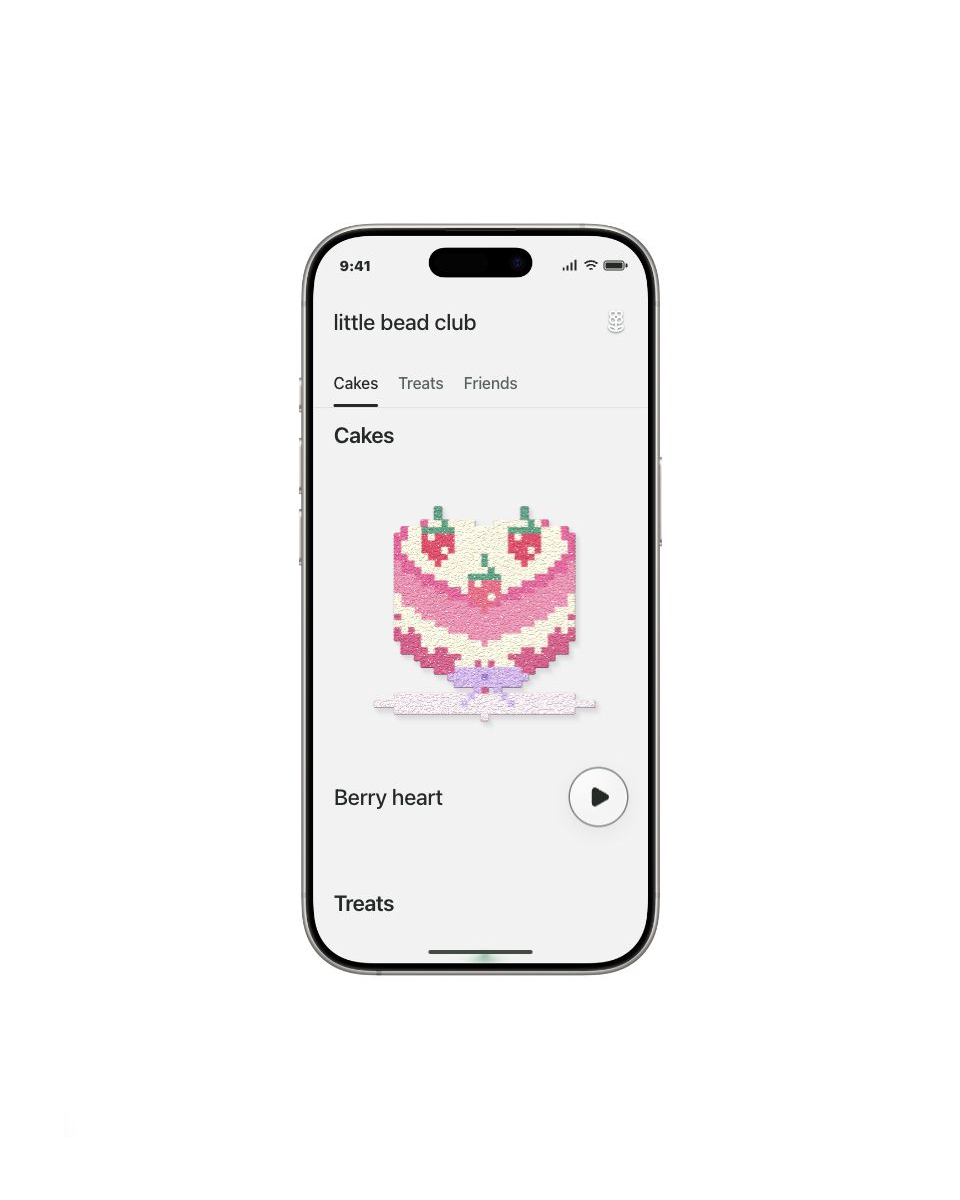
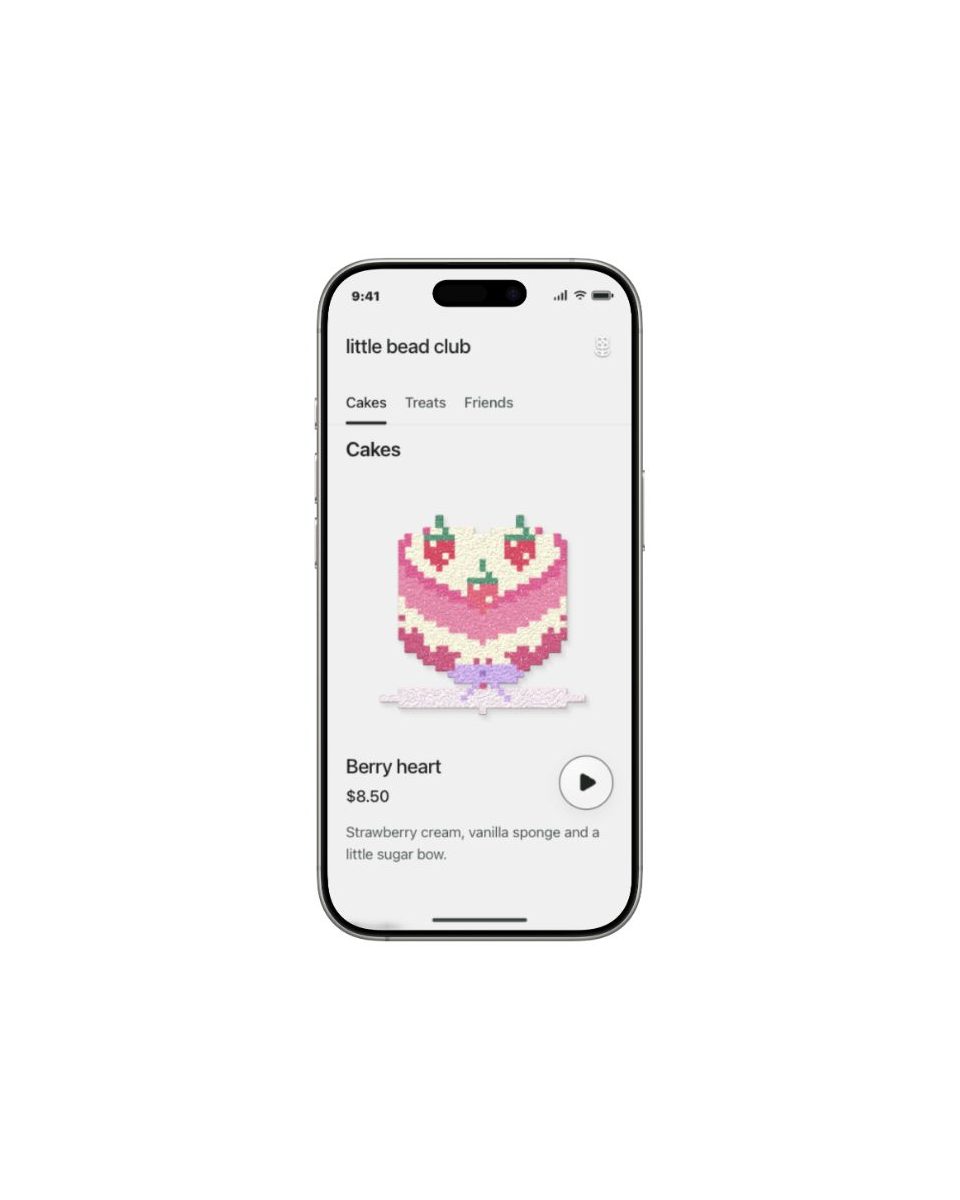
Fit bead phone to screen height and add cafe menu details [skip deploy]

Changed region(s): [[0.3125, 0.185, 0.6875, 0.8325]]

diff --git a/components/play/bead-club/bead-club.tsx b/components/play/bead-club/bead-club.tsx
@@ -15,7 +15,7 @@ export type BeadClubProps = {
 
 type Bead = { x: number; y: number; color: string };
 type BeadMaterial = "pressed" | "frosted" | "glitter" | "terry" | "jelly";
-type Artwork = { material: BeadMaterial; id: string; name: string; category: "Sweet things" | "Little friends"; background: string; beads: Bead[]; colors: string[]; translucentColors?: readonly string[] };
+type Artwork = { material: BeadMaterial; id: string; name: string; price: string; description: string; category: "Sweet things" | "Little friends"; background: string; beads: Bead[]; colors: string[]; translucentColors?: readonly string[] };
 const PHONE_HEIGHT = 390 * 2822 / 1406;
 const P = { pink: "#ff90bd", rose: "#e75793", cream: "#fff2c7", white: "#fffdf4", blue: "#65cff1", red: "#ed3551", dark: "#5b2940", green: "#6cd690", leaf: "#279d69", yellow: "#ffdf53", brown: "#bf8050" };
 
@@ -169,16 +169,16 @@ function makePattern(id: string): Bead[] {
   );
 }
 const artworks: Artwork[] = [
-  { id: "cake-heart", name: "Berry heart", category: "Sweet things", background: "#efe5e3" },
-  { id: "cake-cloud", name: "Blueberry cloud", category: "Sweet things", background: "#e3eff5" },
-  { id: "cake-peach", name: "Peach jelly", category: "Sweet things", background: "#f8e8dd" },
-  { id: "cake-matcha", name: "Matcha garden", category: "Sweet things", background: "#e8efdd" },
-  { id: "cake-violet", name: "Violet crystal", category: "Sweet things", background: "#eee7f7" },
-  { id: "berry", name: "Berry sweet", category: "Sweet things", background: "#e7ebdf" },
-  { id: "bunny", name: "Somebunny", category: "Little friends", background: "#e5eaf0" },
-  { id: "flower", name: "Hello, petal", category: "Little friends", background: "#eee5d9" },
-  { id: "pudding", name: "Sweet little wobble", category: "Sweet things", background: "#e6e9ef" },
-  { id: "bear", name: "Honey bear", category: "Little friends", background: "#eadfd7" },
+  { id: "cake-heart", name: "Berry heart", price: "$8.50", description: "Strawberry cream, vanilla sponge and a little sugar bow.", category: "Sweet things", background: "#efe5e3" },
+  { id: "cake-cloud", name: "Blueberry cloud", price: "$9.00", description: "Blueberry sponge with whipped vanilla cream and berry clouds.", category: "Sweet things", background: "#e3eff5" },
+  { id: "cake-peach", name: "Peach jelly", price: "$7.50", description: "Peach jelly, citrus cream and a fresh mint finish.", category: "Sweet things", background: "#f8e8dd" },
+  { id: "cake-matcha", name: "Matcha garden", price: "$8.00", description: "Matcha sponge, vanilla cream and tiny sugar daisies.", category: "Sweet things", background: "#e8efdd" },
+  { id: "cake-violet", name: "Violet crystal", price: "$8.50", description: "Blackcurrant jelly with vanilla cream and sugared blueberries.", category: "Sweet things", background: "#eee7f7" },
+  { id: "berry", name: "Berry sweet", price: "$5.50", description: "Strawberry mousse wrapped in a bright berry glaze.", category: "Sweet things", background: "#e7ebdf" },
+  { id: "bunny", name: "Somebunny", price: "$6.00", description: "Vanilla bunny cake with strawberry cream and a blue sugar bow.", category: "Little friends", background: "#e5eaf0" },
+  { id: "flower", name: "Hello, petal", price: "$5.00", description: "A raspberry flower tart with a sunny lemon curd centre.", category: "Little friends", background: "#eee5d9" },
+  { id: "pudding", name: "Sweet little wobble", price: "$7.00", description: "Silky vanilla custard, golden caramel and a cherry on top.", category: "Sweet things", background: "#e6e9ef" },
+  { id: "bear", name: "Honey bear", price: "$6.50", description: "Honey sponge with milk chocolate and vanilla cream.", category: "Little friends", background: "#eadfd7" },
 ].map(item => { const beads = makePattern(item.id); return { ...item, material: (JELLY_COLORS[item.id] ? "jelly" : item.id.startsWith("cake-") ? "terry" : "frosted") as BeadMaterial, translucentColors: JELLY_COLORS[item.id], category: item.category as Artwork["category"], beads, colors: [...new Set(beads.map(bead => bead.color))] }; });
 
 function FlatBeadArt({ art, count = art.beads.length, animated = false }: { art: Artwork; count?: number; animated?: boolean }) {
@@ -684,7 +684,7 @@ function MenuShelf({ items, onOpen }: { items: Artwork[]; onOpen: (art: Artwork,
     onClickCapture={event => { if (suppressClick.current) { event.preventDefault(); event.stopPropagation(); suppressClick.current = false; } }}>
     {items.map(art => <article className="bc-menu-card" key={art.id}>
       <button className="bc-menu-open" aria-label={`Open ${art.name}`} onClick={event => onOpen(art, event.currentTarget)}><BeadArt art={art} /></button>
-      <div className="bc-menu-caption"><h3>{art.name}</h3><button className="bc-play-button" aria-label={`Play ${art.name}`} onClick={event => onOpen(art, event.currentTarget)}><Play className="bc-play-symbol" size={23} fill="currentColor" aria-hidden="true" /></button></div>
+      <div className="bc-menu-caption"><div className="bc-menu-info"><h3>{art.name}</h3><p className="bc-menu-price">{art.price}</p><p className="bc-menu-description">{art.description}</p></div><button className="bc-play-button" aria-label={`Play ${art.name}`} onClick={event => onOpen(art, event.currentTarget)}><Play className="bc-play-symbol" size={23} fill="currentColor" aria-hidden="true" /></button></div>
     </article>)}
   </div>;
 }
@@ -697,13 +697,13 @@ export function BeadClub({ loop = false, className }: BeadClubProps) {
   const [activeSection, setActiveSection] = React.useState(0);
   const menuId = React.useId();
   const reduced = !!useReducedMotion();
-  const [scale, setScale] = React.useState(.8);
+  const [scale, setScale] = React.useState<number | null>(null);
   const [selectedId, setSelectedId] = React.useState<string | null>(null);
   const selected = artworks.find(art => art.id === selectedId) ?? null;
   React.useEffect(() => {
     const element = host.current;
-    if (!element || !loop) return;
-    const observer = new ResizeObserver(([entry]) => setScale(Math.max(.1, Math.min((entry.contentRect.width - 34) / 390, (entry.contentRect.height - 42) / PHONE_HEIGHT, 1))));
+    if (!element) return;
+    const observer = new ResizeObserver(([entry]) => setScale(Math.max(0, Math.min((entry.contentRect.width - (loop ? 34 : 16)) / 390, (entry.contentRect.height - (loop ? 42 : 24)) / PHONE_HEIGHT, 1))));
     observer.observe(element);
     return () => observer.disconnect();
   }, [loop]);
@@ -723,7 +723,7 @@ export function BeadClub({ loop = false, className }: BeadClubProps) {
   const close = () => { setSelectedId(null); requestAnimationFrame(() => lastCard.current?.focus({ preventScroll: true })); };
   return <div ref={host} className={`bc-stage ${className ?? ""}`} data-preview={loop ? "loop" : "interactive"}>
     <style>{styles}</style>
-    <div className="bc-phone-space" style={loop ? { width: 390 * scale, height: PHONE_HEIGHT * scale } : undefined}><div className="bc-phone" style={loop ? { width: 390, height: PHONE_HEIGHT, transform: `scale(${scale})` } : undefined}>
+    <div className="bc-phone-space" style={{ width: 390 * (scale ?? 0), height: PHONE_HEIGHT * (scale ?? 0), visibility: scale === null ? "hidden" : "visible" }}><div className="bc-phone" style={loop ? { width: 390, height: PHONE_HEIGHT, transform: `scale(${scale ?? 0})` } : undefined}>
 
       <div className="bc-screen" data-detail={!!selected}>
         <div className="bc-status" aria-hidden="true"><b>9:41</b><div className="bc-indicators"><svg width="16" height="12" viewBox="0 0 16 12"><path d="M1 8v3M5 6v5M9 3v8M13 0v11" stroke="currentColor" strokeWidth="2" /></svg><svg width="15" height="12" viewBox="0 0 15 12"><path d="M1 4Q7.5-1 14 4M3 7q4.5-4 9 0M6 10q1.5-2 3 0" fill="none" stroke="currentColor" strokeWidth="1.7" /></svg><span className="bc-battery" /></div></div>
@@ -750,20 +750,20 @@ export function BeadClub({ loop = false, className }: BeadClubProps) {
 }
 
 const styles = `
-.bc-stage{width:100%;height:100%;min-height:520px;display:flex;align-items:center;justify-content:center;overflow:hidden;background:transparent;color:#242a26;font-family:-apple-system,BlinkMacSystemFont,"Helvetica Neue",Arial,sans-serif;isolation:isolate}.bc-stage[data-preview="interactive"]{min-height:844px}
+.bc-stage{width:100%;height:100%;min-height:0;display:flex;align-items:center;justify-content:center;overflow:hidden;background:transparent;color:#242a26;font-family:-apple-system,BlinkMacSystemFont,"Helvetica Neue",Arial,sans-serif;isolation:isolate}
 .bc-stage *{box-sizing:border-box}.bc-stage button{cursor:pointer;font-family:inherit;color:inherit}.bc-stage button:focus-visible{outline:2px solid #3c5044;outline-offset:4px}.bc-sr-only{position:absolute;width:1px;height:1px;padding:0;margin:-1px;overflow:hidden;clip-path:inset(50%);white-space:nowrap;border:0}
 .bc-phone-space{position:relative;flex-shrink:0;width:min(390px,calc(100% - 8px));aspect-ratio:1406/2822}.bc-phone{position:absolute;inset:0;width:100%;height:100%;transform-origin:top left;container-type:inline-size}.bc-device-frame{position:absolute;inset:0;width:100%;height:100%;pointer-events:none;z-index:20}
 .bc-screen{position:absolute;left:7.254623%;top:3.543586%;width:85.775249%;height:92.912828%;overflow:hidden;mask-image:url('/components/bead-club/iphone-screen-mask.svg');-webkit-mask-image:url('/components/bead-club/iphone-screen-mask.svg');mask-size:100% 100%;-webkit-mask-size:100% 100%;background:${APP_BACKGROUND};isolation:isolate}
 
 .bc-status{height:55px;position:relative;display:flex;align-items:center;justify-content:space-between;padding:4px clamp(15px,6cqw,24px) 0 clamp(16px,6.7cqw,26px);z-index:12;font-size:14px;font-weight:600;color:#242a26;background:transparent}.bc-indicators{display:flex;align-items:center;gap:5px}.bc-battery{width:21px;height:10px;border-radius:3px;border:1px solid currentColor;position:relative}.bc-battery:before{content:'';position:absolute;inset:1px;background:currentColor;border-radius:1px}.bc-battery:after{content:'';position:absolute;width:2px;height:4px;right:-4px;top:2px;background:currentColor;border-radius:1px}
 .bc-header::before,.bc-detail-nav::before{content:'';position:absolute;left:0;right:0;top:-55px;bottom:-28px;z-index:-1;background:transparent;backdrop-filter:blur(14px);-webkit-backdrop-filter:blur(14px);mask-image:linear-gradient(#000 0%,#000 68%,transparent 100%);-webkit-mask-image:linear-gradient(#000 0%,#000 68%,transparent 100%);pointer-events:none}
-.bc-screen[data-detail="true"] .bc-collection{visibility:hidden}.bc-collection{position:relative;height:calc(100% - 55px);display:flex;flex-direction:column}.bc-header{position:relative;z-index:8;flex-shrink:0;min-height:68px;color:#242a26;padding:10px 20px 18px;display:flex;align-items:center;justify-content:space-between;gap:8px;font-size:1.375rem;font-weight:500;letter-spacing:-.35px}.bc-flower{flex-shrink:0;color:#fff;filter:drop-shadow(0 1px 1px #28362a99)}
-.bc-menu-tabs{display:flex;gap:20px;flex-shrink:0;padding:0 20px;min-height:48px;border-bottom:1px solid #242a2614;z-index:8}.bc-menu-tabs button{position:relative;min-height:48px;border:0;background:transparent;padding:0;font-size:16px;font-weight:500;white-space:nowrap;color:#58635b}.bc-menu-tabs button[aria-current]{color:#242a26}.bc-menu-tabs button[aria-current]::after{content:'';position:absolute;left:0;right:0;bottom:0;height:3px;background:currentColor;border-radius:3px}
-.bc-list{position:relative;flex:1;min-height:0;overflow-y:auto;overscroll-behavior:contain;padding:12px 0 52px;scrollbar-width:none}.bc-list::-webkit-scrollbar,.bc-shelf::-webkit-scrollbar{display:none}.bc-menu-section{padding:0 0 28px;scroll-margin-top:12px}.bc-menu-section>h2{font-size:22px;line-height:1.3;font-weight:600;letter-spacing:-.4px;margin:10px 20px 8px}.bc-shelf{display:flex;gap:16px;overflow-x:auto;overflow-y:hidden;padding:0 14px 14px;scroll-snap-type:x mandatory;scroll-padding:14px;scrollbar-width:none;overscroll-behavior-x:contain;cursor:grab}.bc-shelf-dragging{cursor:grabbing;scroll-snap-type:none;user-select:none}.bc-menu-card{flex:0 0 100%;min-width:0;scroll-snap-align:start;scroll-snap-stop:always}.bc-menu-open{display:block;width:100%;height:300px;border:0;background:transparent;padding:0;cursor:inherit!important}.bc-menu-caption{display:flex;align-items:center;justify-content:space-between;gap:16px;min-height:80px;padding:6px}.bc-menu-caption h3{font-size:22px;line-height:1.25;font-weight:500;letter-spacing:-.4px;margin:0;min-width:0;overflow-wrap:anywhere}.bc-menu-caption .bc-play-button{border:1.5px solid #78827b}
+.bc-screen[data-detail="true"] .bc-collection{visibility:hidden}.bc-collection{position:relative;height:calc(100% - 55px);display:flex;flex-direction:column}.bc-header{position:relative;z-index:8;flex-shrink:0;min-height:68px;color:#242a26;padding:10px 20px 18px;display:flex;align-items:center;justify-content:space-between;gap:8px;font-size:clamp(18px,5.65cqw,22px);font-weight:500;letter-spacing:-.35px}.bc-flower{flex-shrink:0;color:#fff;filter:drop-shadow(0 1px 1px #28362a99)}
+.bc-menu-tabs{display:flex;gap:20px;flex-shrink:0;overflow-x:auto;scrollbar-width:none;padding:0 20px;min-height:48px;border-bottom:1px solid #242a2614;z-index:8}.bc-menu-tabs button{flex-shrink:0;position:relative;min-height:48px;border:0;background:transparent;padding:0;font-size:16px;font-weight:500;white-space:nowrap;color:#58635b}.bc-menu-tabs button[aria-current]{color:#242a26}.bc-menu-tabs button[aria-current]::after{content:'';position:absolute;left:0;right:0;bottom:0;height:3px;background:currentColor;border-radius:3px}
+.bc-list{position:relative;flex:1;min-height:0;overflow-y:auto;overscroll-behavior:contain;padding:12px 0 52px;scrollbar-width:none}.bc-list::-webkit-scrollbar,.bc-shelf::-webkit-scrollbar{display:none}.bc-menu-section{padding:0 0 28px;scroll-margin-top:12px}.bc-menu-section>h2{font-size:22px;line-height:1.3;font-weight:600;letter-spacing:-.4px;margin:10px 20px 8px}.bc-shelf{display:flex;gap:16px;overflow-x:auto;overflow-y:hidden;padding:0 14px 14px;scroll-snap-type:x mandatory;scroll-padding:14px;scrollbar-width:none;overscroll-behavior-x:contain;cursor:grab}.bc-shelf-dragging{cursor:grabbing;scroll-snap-type:none;user-select:none}.bc-menu-card{flex:0 0 100%;min-width:0;scroll-snap-align:start;scroll-snap-stop:always}.bc-menu-open{display:block;width:100%;height:auto;aspect-ratio:1;border:0;background:transparent;padding:0;cursor:inherit!important}.bc-menu-caption{display:grid;grid-template-columns:minmax(0,1fr) 60px;column-gap:16px;align-items:start;min-height:80px;padding:6px}.bc-menu-caption h3{grid-column:1;grid-row:1;font-size:22px;line-height:1.25;font-weight:500;letter-spacing:-.4px;margin:0;min-width:0;overflow-wrap:anywhere}.bc-menu-caption .bc-play-button{border:1.5px solid #78827b;margin-top:2px;grid-column:2;grid-row:1 / 3}.bc-menu-info{display:contents}.bc-menu-price{grid-column:1;grid-row:2;font-size:18px;line-height:1.4;font-weight:500;margin:7px 0}.bc-menu-description{grid-column:1 / -1;grid-row:3;font-size:16px;line-height:1.5;color:#58635b;margin:8px 0 0}.bc-stage svg{flex-shrink:0}
 .bc-art{width:100%;height:100%;display:block;overflow:visible;filter:drop-shadow(.5px 3px 1.5px #493d3033)}.bc-art-3d{position:relative;filter:none}.bc-art-3d>canvas{position:absolute;inset:0;pointer-events:none}
 .bc-home{position:absolute;width:104px;height:4px;border-radius:4px;background:#424b45;bottom:9px;left:50%;transform:translateX(-50%);z-index:10}
 .bc-glass-edge{position:absolute;bottom:0;left:0;right:0;height:28px;pointer-events:none;z-index:6;background:transparent}.bc-glass-edge i{position:absolute;inset:0;backdrop-filter:blur(2px);-webkit-backdrop-filter:blur(2px);mask-image:linear-gradient(transparent,#000);-webkit-mask-image:linear-gradient(transparent,#000)}.bc-glass-edge i:nth-child(2){top:10px;backdrop-filter:blur(5px);-webkit-backdrop-filter:blur(5px)}.bc-glass-edge i:nth-child(3){top:18px;backdrop-filter:blur(9px);-webkit-backdrop-filter:blur(9px)}.bc-screen[data-detail="true"] .bc-glass-edge{height:32px}
 .bc-glass-reflection{position:absolute;inset:0;border-radius:inherit;z-index:7;pointer-events:none;box-shadow:inset 0 0 2px #fff4}
-.bc-detail{position:absolute;inset:55px 0 0;background:${APP_BACKGROUND};z-index:4;overflow-y:auto;scrollbar-width:none;padding-bottom:58px}.bc-detail-nav{position:sticky;top:0;z-index:8;min-height:56px;display:flex;align-items:center;padding:0 12px;color:#fff}.bc-icon{width:44px;height:44px;min-width:44px;min-height:44px;border:1px solid #fff9;background:#4e5b53cc;backdrop-filter:blur(10px) saturate(1.25);-webkit-backdrop-filter:blur(10px) saturate(1.25);box-shadow:inset 1px 1px 1px #fffc,0 3px 9px #17231a0b;display:grid;place-items:center;border-radius:50%}.bc-icon svg{filter:drop-shadow(0 1px 1px #28362acc)}.bc-board{height:330px;margin:0 10px;position:relative;padding:8px 0;display:flex;justify-content:center;align-items:center}.bc-board .bc-art{width:100%;height:100%}.bc-detail-caption{display:flex;align-items:center;justify-content:space-between;gap:16px;padding:20px 22px 0}.bc-detail-caption h2{flex:1;min-width:0;font-size:1.375rem;line-height:1.35;font-weight:500;letter-spacing:-.4px;margin:0;overflow-wrap:anywhere}.bc-playback{flex:0 0 auto;position:relative}.bc-play-button{position:relative;display:grid;place-items:center;width:60px;height:60px;aspect-ratio:1;border:0;border-radius:50%;background:linear-gradient(145deg,#ffffff80,#ffffff20 48%,#ffffff45);backdrop-filter:blur(12px) saturate(1.3);-webkit-backdrop-filter:blur(12px) saturate(1.3);box-shadow:inset 1px 1px 1px #fffe,inset -1px -1px 2px #ffffff80,0 5px 16px #24372b12;color:#304236;padding:0;flex-shrink:0}.bc-play-button::before{content:'';position:absolute;inset:2px;border-radius:50%;background:radial-gradient(ellipse at 28% 14%,#ffffff90,transparent 65%);pointer-events:none}.bc-play-button[aria-pressed="true"]{box-shadow:inset 1px 1px 1px #fff,inset -1px -1px 3px #ffffff80,0 3px 12px #24372b16}.bc-play-outline{position:absolute;inset:0;width:100%;height:100%;pointer-events:none}.bc-play-symbol{position:relative;margin-left:0}.bc-play-symbol.lucide-play{margin-left:2px}.bc-play-progress{transition:stroke-dashoffset .08s linear}
+.bc-detail{position:absolute;inset:55px 0 0;background:${APP_BACKGROUND};z-index:4;overflow-y:auto;scrollbar-width:none;padding-bottom:58px}.bc-detail-nav{position:sticky;top:0;z-index:8;min-height:56px;display:flex;align-items:center;padding:0 12px;color:#fff}.bc-icon{width:44px;height:44px;min-width:44px;min-height:44px;border:1px solid #fff9;background:#4e5b53cc;backdrop-filter:blur(10px) saturate(1.25);-webkit-backdrop-filter:blur(10px) saturate(1.25);box-shadow:inset 1px 1px 1px #fffc,0 3px 9px #17231a0b;display:grid;place-items:center;border-radius:50%}.bc-icon svg{filter:drop-shadow(0 1px 1px #28362acc)}.bc-board{height:clamp(180px,85cqw,330px);margin:0 10px;position:relative;padding:8px 0;display:flex;justify-content:center;align-items:center}.bc-board .bc-art{width:100%;height:100%}.bc-detail-caption{display:flex;align-items:center;justify-content:space-between;gap:16px;padding:20px 22px 0}.bc-detail-caption h2{flex:1;min-width:0;font-size:1.375rem;line-height:1.35;font-weight:500;letter-spacing:-.4px;margin:0;overflow-wrap:anywhere}.bc-playback{flex:0 0 auto;position:relative}.bc-play-button{position:relative;display:grid;place-items:center;width:60px;height:60px;aspect-ratio:1;border:0;border-radius:50%;background:linear-gradient(145deg,#ffffff80,#ffffff20 48%,#ffffff45);backdrop-filter:blur(12px) saturate(1.3);-webkit-backdrop-filter:blur(12px) saturate(1.3);box-shadow:inset 1px 1px 1px #fffe,inset -1px -1px 2px #ffffff80,0 5px 16px #24372b12;color:#304236;padding:0;flex-shrink:0}.bc-play-button::before{content:'';position:absolute;inset:2px;border-radius:50%;background:radial-gradient(ellipse at 28% 14%,#ffffff90,transparent 65%);pointer-events:none}.bc-play-button[aria-pressed="true"]{box-shadow:inset 1px 1px 1px #fff,inset -1px -1px 3px #ffffff80,0 3px 12px #24372b16}.bc-play-outline{position:absolute;inset:0;width:100%;height:100%;pointer-events:none}.bc-play-symbol{position:relative;margin-left:0}.bc-play-symbol.lucide-play{margin-left:2px}.bc-play-progress{transition:stroke-dashoffset .08s linear}
 
 .bc-bead-drop{animation:bc-place .24s cubic-bezier(.2,.65,.3,1) both}@keyframes bc-place{from{opacity:0;transform:translateY(-.5px)}to{opacity:1;transform:translateY(0) scale(1)}}@container(max-width:280px){.bc-indicators{gap:3px}.bc-indicators svg{width:13px}.bc-battery{width:18px}}@media(prefers-reduced-motion:reduce){.bc-stage *{animation:none!important;transition:none!important}}`;

diff --git a/src/lib/component-registry.ts b/src/lib/component-registry.ts
@@ -109,7 +109,7 @@ export const componentRegistry = {
     index: "022",
     title: "Bead Club",
     description:
-      "A menu of tiny bead creations inside an official silver iPhone 16 Pro bezel. Browse Cakes, Treats and Friends in swipeable rows with larger artwork, soft terry textures and fine glitter. Open a piece to replay it one color at a time, including two translucent jelly cakes.",
+      "A café-style menu of bead creations inside a silver iPhone that fits the available screen height. Browse Cakes, Treats and Friends in swipeable rows with large textured artwork, sample prices and descriptions. Open a piece to replay its creation one color at a time.",
     category: "Play",
     status: "NEW",
     statusClassName: "bg-[var(--jitter-orange)]/12 text-[var(--jitter-orange)]",

diff --git a/components/play/bead-club/README.md b/components/play/bead-club/README.md
@@ -1,6 +1,6 @@
 # Bead Club
 
-A menu of tiny bead creations inside an official silver iPhone 16 Pro bezel. Browse Cakes, Treats and Friends in swipeable rows with larger artwork, soft terry textures and fine glitter. Open a piece to replay it one color at a time, including two translucent jelly cakes.
+A café-style menu of bead creations inside a silver iPhone that fits the available screen height. Browse Cakes, Treats and Friends in swipeable rows with large textured artwork, sample prices and descriptions. Open a piece to replay its creation one color at a time.
 
 ![Bead Club preview](https://atomicmotion.dev/previews/bead-club.png)
 
